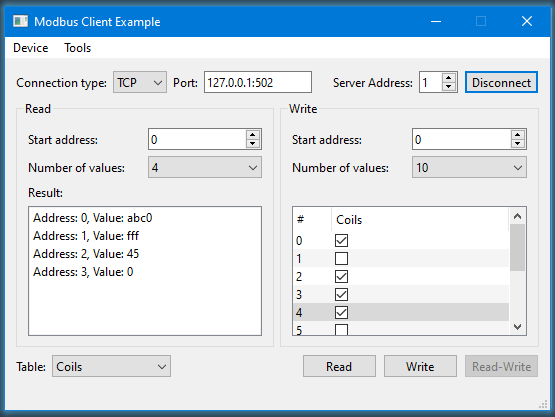
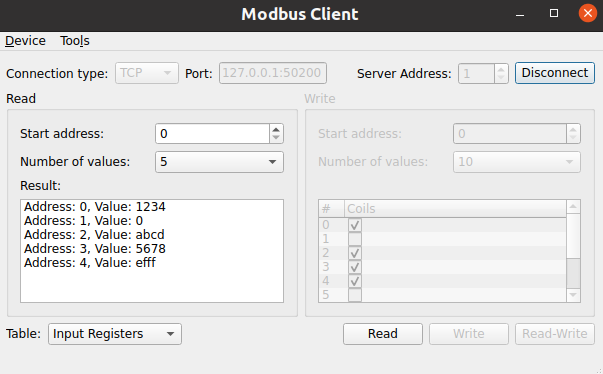
Modbus Client: update example description
Extend the example description so that it actually highlights the main
features shown in the example.

Also update the example to match the guidelines:
* Do not use Example in the name
* Update screenshot
* add Connectivity category

Task-number: QTBUG-110890
Pick-to: 6.5

Changed region(s): [[0.0, 0.0, 1.0, 1.0], [0.5207, 0.3235, 0.7045, 0.4412]]

diff --git a/examples/serialbus/modbus/client/mainwindow.cpp b/examples/serialbus/modbus/client/mainwindow.cpp
@@ -130,6 +130,7 @@ void MainWindow::onConnectTypeChanged(int index)
         modbusDevice = nullptr;
     }
 
+//! [create_client_0]
     auto type = static_cast<ModbusConnection>(index);
     if (type == Serial) {
 #if QT_CONFIG(modbus_serialport)
@@ -148,6 +149,7 @@ void MainWindow::onConnectTypeChanged(int index)
         if (currentUrl.port() <= 0)
             ui->portEdit->setText(QLatin1String("127.0.0.1:50200"));
     }
+//! [create_client_0]
 
     connect(modbusDevice, &QModbusClient::errorOccurred, [this](QModbusDevice::Error) {
         statusBar()->showMessage(modbusDevice->errorString(), 5000);
@@ -169,6 +171,7 @@ void MainWindow::onConnectButtonClicked()
 
     statusBar()->clearMessage();
     if (modbusDevice->state() != QModbusDevice::ConnectedState) {
+//! [create_client_1]
         const auto settings = m_settingsDialog->settings();
         if (static_cast<ModbusConnection>(ui->connectType->currentIndex()) == Serial) {
             modbusDevice->setConnectionParameter(QModbusDevice::SerialPortNameParameter,
@@ -190,6 +193,7 @@ void MainWindow::onConnectButtonClicked()
         }
         modbusDevice->setTimeout(settings.responseTime);
         modbusDevice->setNumberOfRetries(settings.numberOfRetries);
+//! [create_client_1]
         if (!modbusDevice->connectDevice()) {
             statusBar()->showMessage(tr("Connect failed: %1").arg(modbusDevice->errorString()), 5000);
         } else {
@@ -226,6 +230,7 @@ void MainWindow::onReadButtonClicked()
     ui->readValue->clear();
     statusBar()->clearMessage();
 
+//! [read_data_1]
     if (auto *reply = modbusDevice->sendReadRequest(readRequest(), ui->serverEdit->value())) {
         if (!reply->isFinished())
             connect(reply, &QModbusReply::finished, this, &MainWindow::onReadReady);
@@ -234,8 +239,10 @@ void MainWindow::onReadButtonClicked()
     } else {
         statusBar()->showMessage(tr("Read error: %1").arg(modbusDevice->errorString()), 5000);
     }
+//! [read_data_1]
 }
 
+//! [read_data_2]
 void MainWindow::onReadReady()
 {
     auto reply = qobject_cast<QModbusReply *>(sender());
@@ -262,6 +269,7 @@ void MainWindow::onReadReady()
 
     reply->deleteLater();
 }
+//! [read_data_2]
 
 void MainWindow::onWriteButtonClicked()
 {
@@ -269,6 +277,7 @@ void MainWindow::onWriteButtonClicked()
         return;
     statusBar()->clearMessage();
 
+//! [write_data_0]
     QModbusDataUnit writeUnit = writeRequest();
     QModbusDataUnit::RegisterType table = writeUnit.registerType();
     for (qsizetype i = 0, total = writeUnit.valueCount(); i < total; ++i) {
@@ -300,6 +309,7 @@ void MainWindow::onWriteButtonClicked()
     } else {
         statusBar()->showMessage(tr("Write error: %1").arg(modbusDevice->errorString()), 5000);
     }
+//! [write_data_0]
 }
 
 void MainWindow::onReadWriteButtonClicked()
@@ -344,6 +354,7 @@ void MainWindow::onWriteTableChanged(int index)
     ui->writeGroupBox->setEnabled(coilsOrHolding);
 }
 
+//! [read_data_0]
 QModbusDataUnit MainWindow::readRequest() const
 {
     const auto table = ui->writeTable->currentData().value<QModbusDataUnit::RegisterType>();
@@ -356,6 +367,7 @@ QModbusDataUnit MainWindow::readRequest() const
                                    quint16(10 - startAddress));
     return QModbusDataUnit(table, startAddress, numberOfEntries);
 }
+//! [read_data_0]
 
 QModbusDataUnit MainWindow::writeRequest() const
 {
